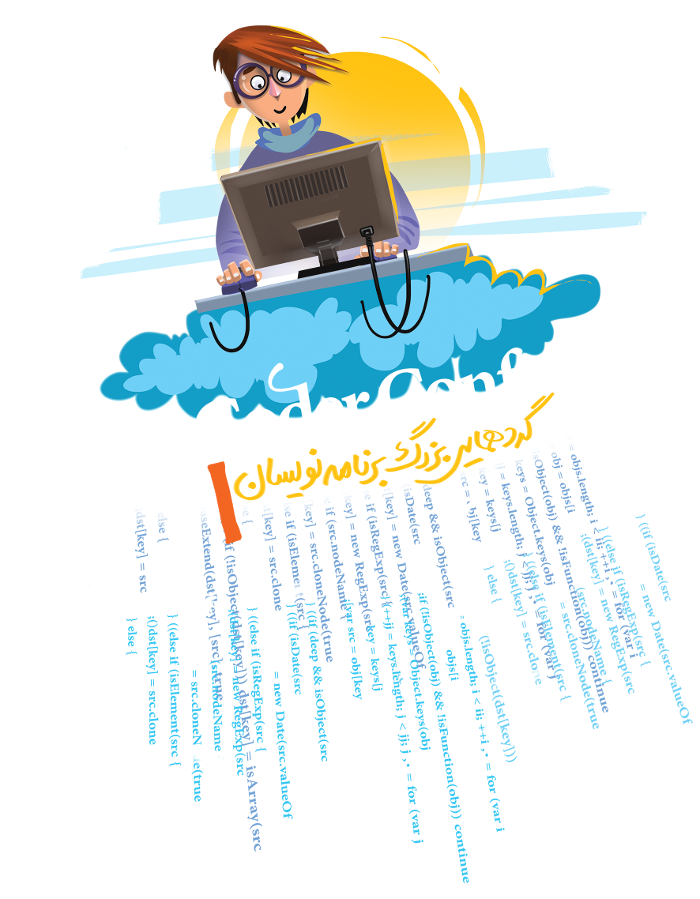
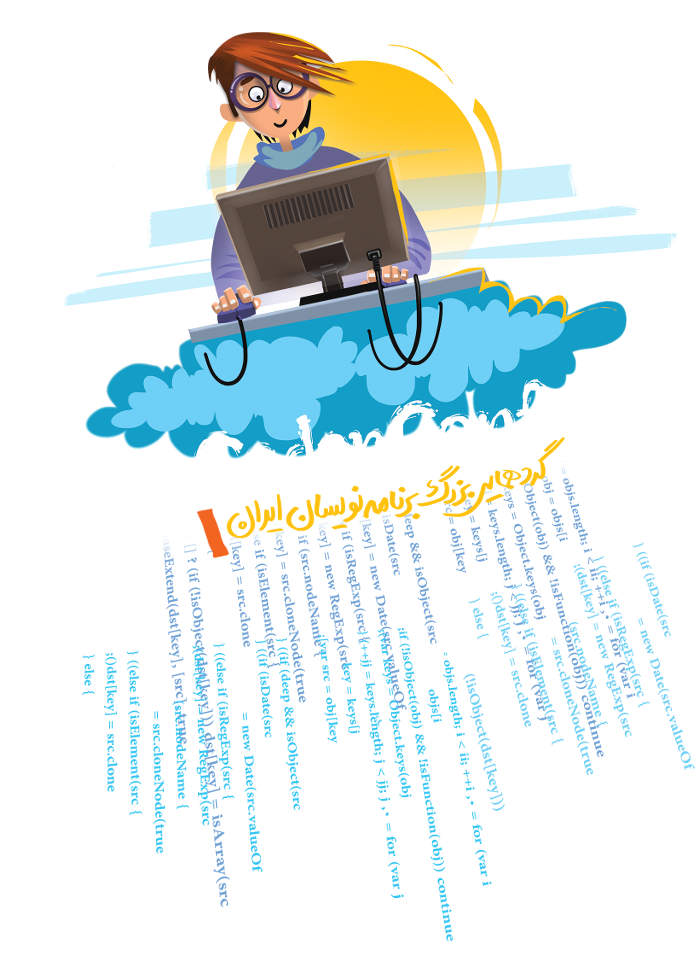
Update style and caricature

Changed region(s): [[0.09, 0.0, 0.96, 0.9967], [0.96, 0.7475, 0.99, 0.8098]]

diff --git a/src/index.html b/src/index.html
@@ -88,10 +88,10 @@
         </section>
 
         <section class="article-page">
-            <p>            جهت ارسال مقاله مرتبط با بوردهای Server-side و Client-side میتوانید موضوع و چکیده (حدود ۳ تا ۱۰ خط) مقاله خود را به همراه کلمات کلیدی، تا تاریخ ۳۰ اردیبهشت برای ما ارسال نمایید.</p>
-            <p>            در صورت تایید اولیه مقالهها میتوانید مقاله نهایی خود را تا تاریخ ۳۰ خرداد برای ما ارسال نمایید تا در صورت تائید، مقالهی شما با نام شما در کتاب الکترونیکی همایش منتشر شود.</p>
+            <p> جهت ارسال مقالهی مرتبط با بوردهای Server-side و Client-side میتوانید موضوع و چکیده (حدود ۳ تا ۱۰ خط) مقالهی خود را به همراه کلمات کلیدی، تا تاریخ <strong>۱۰ خرداد</strong> برای ما ارسال نمایید.</p>
+            <p> در صورت تایید اولیه مقالهها، میتوانید مقالهی نهایی خود را تا تاریخ<strong> ۱۰ تیر</strong> برای ما ارسال نمایید تا در صورت تائید، مقالهی شما با نام شما در کتاب الکترونیکی همایش منتشر شود.</p>
             <p>مقالههای برتر توسط نویسنده در روز همایش ارائه خواهد شد.</p>
-            <p>همچنین میتوانید در مورد فعالیت و پروژههای متنباز مرتبط با بوردهای همایش مقاله ارسال نمایید.</p>
+            <p>همچنین میتوانید در مورد فعالیت و پروژههای متنباز مرتبط با بوردهای همایش، مقاله ارسال نمایید.</p>
 
             <h6 class="submit-text">جهت ارسال مقاله میتوانید از <a href="http://goo.gl/forms/z4QtT1sQyU" target="_blank">اینجـــــا</a> اقدام نمایید.</h6>
         </section>

diff --git a/src/css/main.css b/src/css/main.css
@@ -166,15 +166,16 @@ p {
     background: url("../img/caricature-click.png") no-repeat;
     display: none;
     position: relative;
-    top: 264px;
-    left: 240px ;
-    width: 16px;
-    height: 17px;
+    top: 291px;
+    left: 238px ;
+    width: 17px;
+    height: 20px;
 }
 
 @media only screen and (max-width: 700px) {
     .caricature-page .caricature-image {
         background-size: cover;
+        background-position: center;
         width: 100%;
     }
     .caricature-page .caricature-image .eyes {
@@ -211,6 +212,9 @@ p {
     text-shadow: 0 0 1px #000;
     text-align: center;
     /*text-align: justify;*/
+}
+.article-page strong {
+    color: #fff;
 }
 .article-page .submit-text {
     color: #f9fbff;

diff --git a/src/js/main.js b/src/js/main.js
@@ -56,8 +56,8 @@ if($(window).width() >= 700) {
             pupil.css({left:xp, top:yp});
         }, 1);
     };
-    var eyeLeft = new DrawEye("eyeLeft", "pupilLeft", 252, 76.5, 12);
-    var eyeRight = new DrawEye("eyeRight", "pupilRight", 278, 69, 12);
+    var eyeLeft = new DrawEye("eyeLeft", "pupilLeft", 250, 88, 12.5);
+    var eyeRight = new DrawEye("eyeRight", "pupilRight", 278, 80, 12.5);
 
     
 
